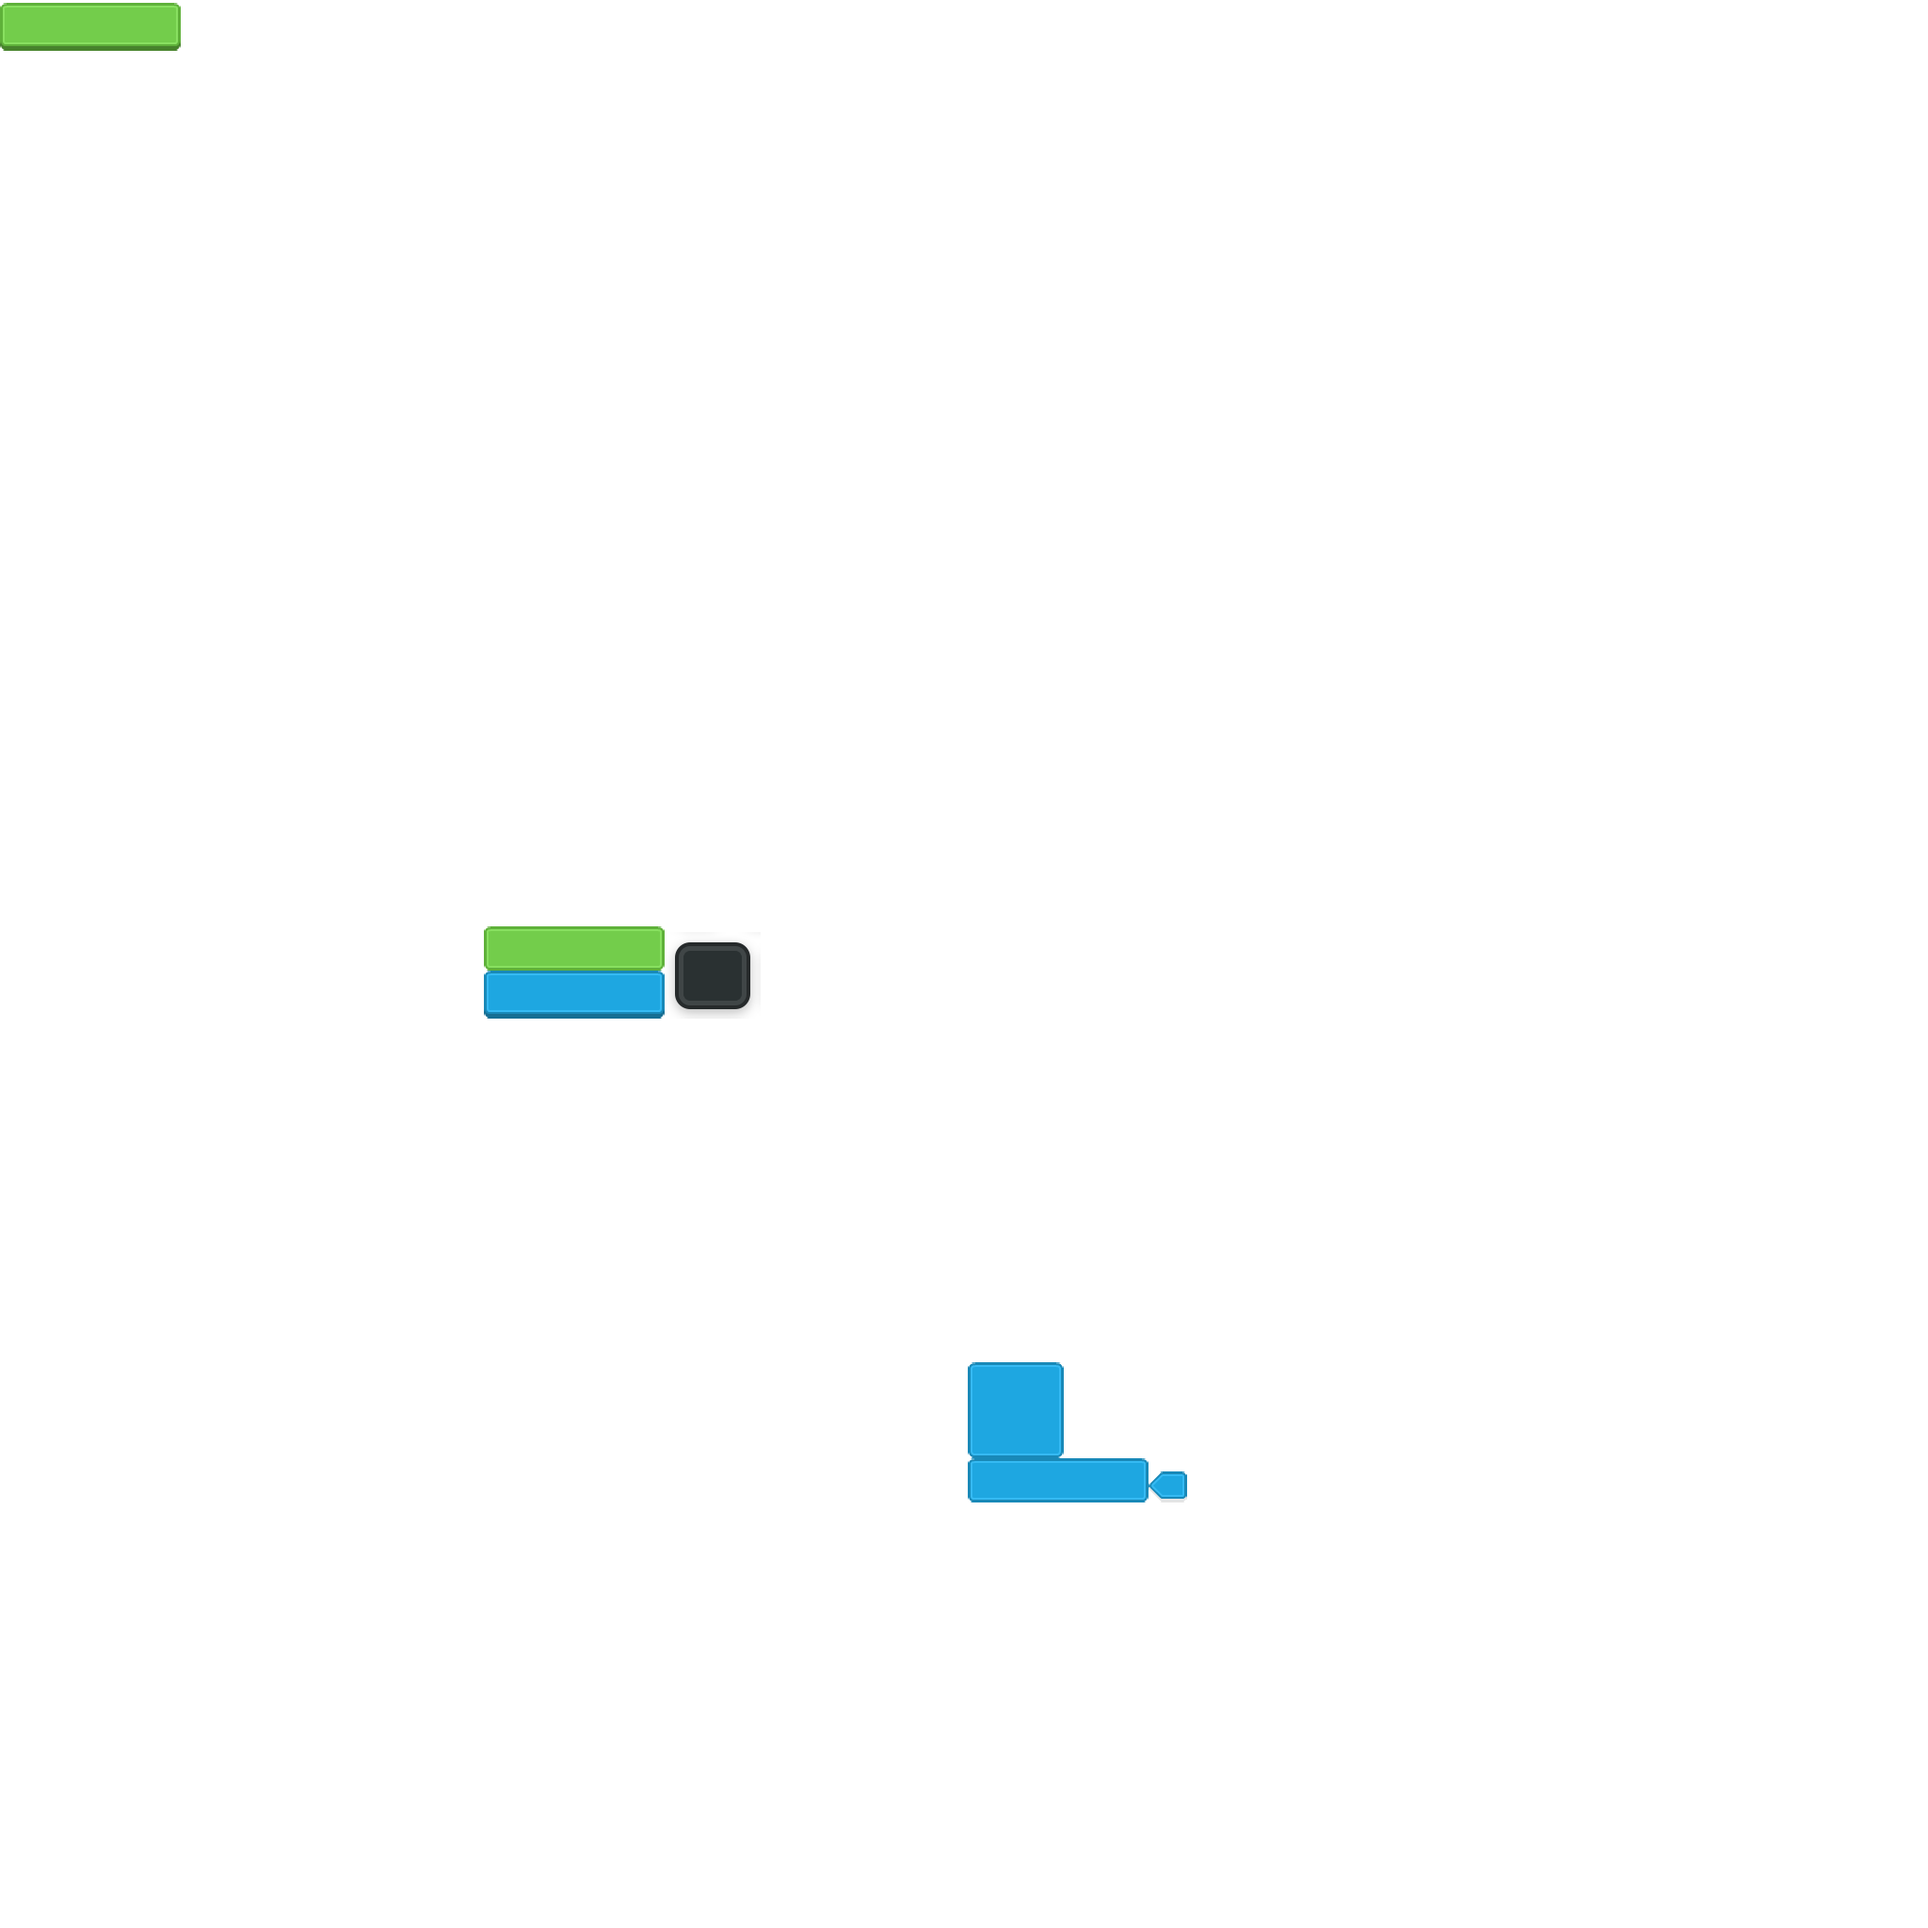
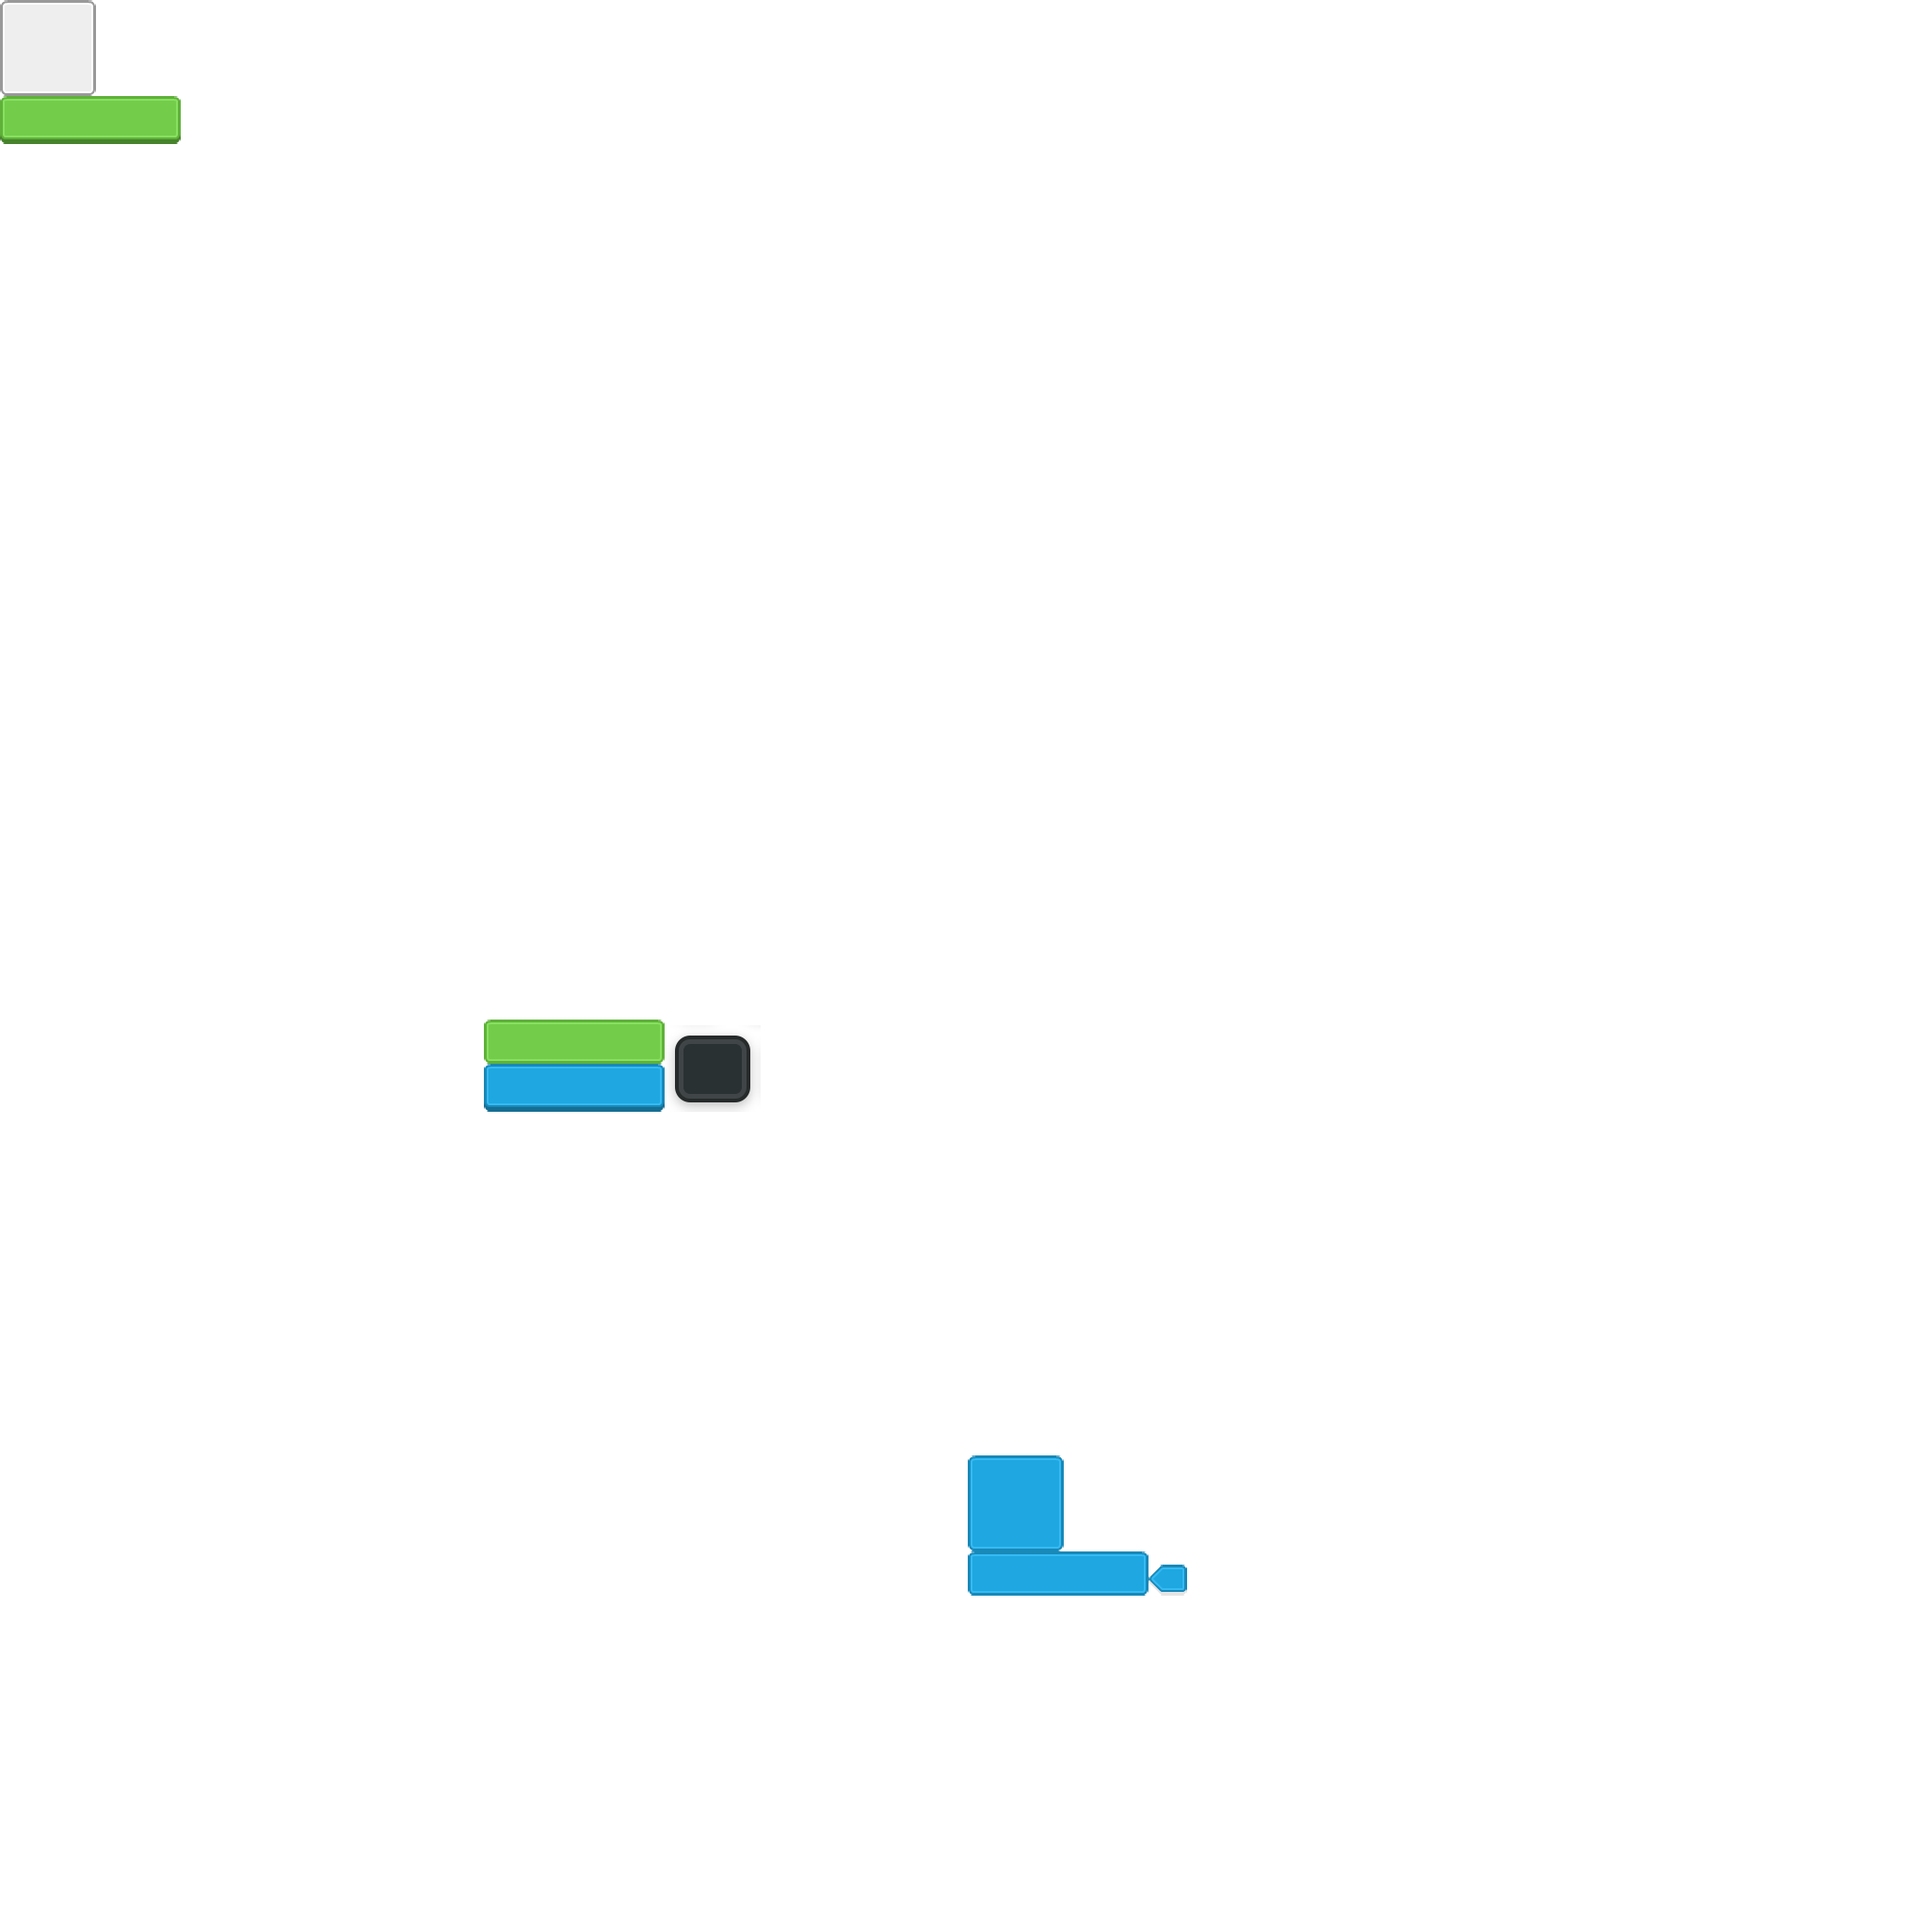
Add simple lobby screen

Changed region(s): [[0.25, 0.4688, 0.4062, 0.5938], [0.5, 0.6875, 0.625, 0.8438], [0.0, 0.0, 0.0938, 0.0938]]

diff --git a/core/src/com/jaeheonshim/ersgame/screen/LobbyScreen.java b/core/src/com/jaeheonshim/ersgame/screen/LobbyScreen.java
@@ -1,0 +1,82 @@
+package com.jaeheonshim.ersgame.screen;
+
+import com.badlogic.gdx.Screen;
+import com.badlogic.gdx.graphics.Color;
+import com.badlogic.gdx.scenes.scene2d.Stage;
+import com.badlogic.gdx.scenes.scene2d.ui.ScrollPane;
+import com.badlogic.gdx.scenes.scene2d.ui.Skin;
+import com.badlogic.gdx.scenes.scene2d.ui.Table;
+import com.badlogic.gdx.utils.Align;
+import com.badlogic.gdx.utils.ScreenUtils;
+import com.badlogic.gdx.utils.viewport.ExtendViewport;
+import com.jaeheonshim.ersgame.ERSGame;
+import com.jaeheonshim.ersgame.scene.shaded.ERSLabel;
+import com.jaeheonshim.ersgame.scene.ui.PlayerElement;
+import com.jaeheonshim.ersgame.scene.ui.PlayersPane;
+
+public class LobbyScreen implements Screen {
+    private ERSGame game;
+    private Stage stage;
+    private Table table;
+    private Skin skin;
+
+    private ERSLabel gameCodeLabel;
+    private PlayersPane playersPane;
+
+    public LobbyScreen(ERSGame game) {
+        this.game = game;
+
+        stage = new Stage(new ExtendViewport(600, 900));
+        table = new Table();
+        table.setFillParent(true);
+        stage.addActor(table);
+
+        skin = game.assets.get(game.uiSkin);
+
+        gameCodeLabel = new ERSLabel("129323", skin, "bluepanel", game);
+        gameCodeLabel.setAlignment(Align.center);
+        table.add(gameCodeLabel).width(150).height(60).expandX();
+        table.row();
+
+        playersPane = new PlayersPane(game);
+        table.add(new ScrollPane(playersPane)).expandY().expandX().fill().padTop(16);
+    }
+
+    @Override
+    public void show() {
+
+    }
+
+    @Override
+    public void render(float delta) {
+        ScreenUtils.clear(Color.WHITE);
+
+        stage.act(delta);
+        stage.draw();
+    }
+
+    @Override
+    public void resize(int width, int height) {
+        stage.getViewport().update(width, height, true);
+    }
+
+    @Override
+    public void pause() {
+
+    }
+
+    @Override
+    public void resume() {
+
+    }
+
+    @Override
+    public void hide() {
+
+    }
+
+    @Override
+    public void dispose() {
+
+    }
+}

diff --git a/core/src/com/jaeheonshim/ersgame/ERSGame.java b/core/src/com/jaeheonshim/ersgame/ERSGame.java
@@ -12,6 +12,7 @@ import com.jaeheonshim.ersgame.scene.OverlayStage;
 import com.jaeheonshim.ersgame.scene.StyleUtil;
 import com.jaeheonshim.ersgame.screen.CreateGameScreen;
 import com.jaeheonshim.ersgame.screen.JoinGameScreen;
+import com.jaeheonshim.ersgame.screen.LobbyScreen;
 import com.jaeheonshim.ersgame.screen.MainScreen;
 
 public class ERSGame extends Game {
@@ -27,6 +28,7 @@ public class ERSGame extends Game {
 	public Screen mainScreen;
 	public Screen joinGameScreen;
 	public Screen createGameScreen;
+	public Screen lobbyScreen;
 
 	private void loadAssets() {
 		assets.load(cardsAtlas, TextureAtlas.class);
@@ -46,9 +48,11 @@ public class ERSGame extends Game {
 		mainScreen = new MainScreen(this);
 		joinGameScreen = new JoinGameScreen(this);
 		createGameScreen = new CreateGameScreen(this);
+		lobbyScreen = new LobbyScreen(this);
 
 		NetManager.getInstance().connect();
-		setScreen(mainScreen);
+//		setScreen(mainScreen);
+		setScreen(lobbyScreen);
 	}
 
 	@Override
@@ -60,6 +64,7 @@ public class ERSGame extends Game {
 
 	@Override
 	public void resize(int width, int height) {
+		super.resize(width, height);
 		OverlayStage.getInstance().getViewport().update(width, height, true);
 	}
 

diff --git a/core/src/com/jaeheonshim/ersgame/scene/ui/PlayerElement.java b/core/src/com/jaeheonshim/ersgame/scene/ui/PlayerElement.java
@@ -1,0 +1,27 @@
+package com.jaeheonshim.ersgame.scene.ui;
+
+import com.badlogic.gdx.graphics.Color;
+import com.badlogic.gdx.scenes.scene2d.ui.Skin;
+import com.badlogic.gdx.scenes.scene2d.ui.Table;
+import com.badlogic.gdx.scenes.scene2d.utils.NinePatchDrawable;
+import com.jaeheonshim.ersgame.ERSGame;
+import com.jaeheonshim.ersgame.scene.shaded.ERSLabel;
+
+public class PlayerElement extends Table {
+    private ERSGame game;
+    private Skin skin;
+
+    private ERSLabel nameLabel;
+
+    public PlayerElement(ERSGame game) {
+        this.game = game;
+        this.skin = game.assets.get(game.uiSkin);
+
+        NinePatchDrawable backgroundDrawable = new NinePatchDrawable(skin.getPatch("grey_panel"));
+        setBackground(backgroundDrawable);
+
+        nameLabel = new ERSLabel("Jaeheon", skin, game);
+        nameLabel.setColor(Color.BLACK);
+        add(nameLabel);
+    }
+}

diff --git a/core/src/com/jaeheonshim/ersgame/scene/ui/PlayersPane.java b/core/src/com/jaeheonshim/ersgame/scene/ui/PlayersPane.java
@@ -1,0 +1,21 @@
+package com.jaeheonshim.ersgame.scene.ui;
+
+import com.badlogic.gdx.scenes.scene2d.Actor;
+import com.badlogic.gdx.scenes.scene2d.ui.ScrollPane;
+import com.badlogic.gdx.scenes.scene2d.ui.Skin;
+import com.badlogic.gdx.scenes.scene2d.ui.Table;
+import com.jaeheonshim.ersgame.ERSGame;
+
+public class PlayersPane extends Table {
+    private ERSGame game;
+    private Skin skin;
+
+    public PlayersPane(ERSGame game) {
+        this.game = game;
+        this.skin = game.assets.get(game.uiSkin);
+
+        setFillParent(true);
+        pad(8);
+        add(new PlayerElement(game)).top().expandX().expandY().fillX().height(60);
+    }
+}
